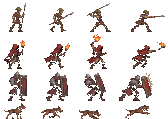
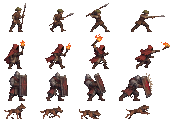
영상·적 그림 바탕 지우기 개선: 테두리와 이어진 바탕만 지워 장화·외곽선·그림자 구멍 메움
Claude-Session: https://claude.ai/code/session_01CPuQwRxjahy2BkbhjWZhoU

diff --git a/index.html b/index.html
@@ -1636,7 +1636,7 @@ function updateEnemy(e, dt) {
   e.type.ai(e, player, dx, Math.abs(dx));
 }
 // 1챕터 적 그림 (Higgsfield → art/enemies/enemies_cut.py): 줄마다 대기·걷기·준비·공격 4자세, 기준점 = 발 가운데
-const ENSPR = {"militia":{"w":42,"h":32,"ax":16,"ay":32,"y":0},"torch":{"w":42,"h":37,"ax":14,"ay":37,"y":32},"shield":{"w":39,"h":32,"ax":18,"ay":32,"y":69},"hound":{"w":38,"h":18,"ax":14,"ay":18,"y":101}};
+const ENSPR = {"militia":{"w":42,"h":32,"ax":16,"ay":32,"y":0},"torch":{"w":43,"h":37,"ax":14,"ay":37,"y":32},"shield":{"w":39,"h":32,"ax":18,"ay":32,"y":69},"hound":{"w":38,"h":18,"ax":14,"ay":18,"y":101}};
 const enImg = new Image(); enImg.src = "assets/enemies.png";
 const enC = mk(SP, SP), enG = enC.getContext("2d");
 function drawEnemyArt(e) {

diff --git a/art/enemies/enemies_cut.py b/art/enemies/enemies_cut.py
@@ -1,13 +1,14 @@
 # 1챕터 적 4종 시트(가로 한 줄 4자세: 대기·걷기·준비·공격)를 잘라 assets/enemies.png 로 묶는다. 좌표 JSON 출력
 # 자세마다 발(아래 20% 줄)의 가운데를 기준점으로 맞춘다. 크기는 대기 자세 키로 맞춤
-import json, numpy as np
+import json, sys, os, numpy as np
+sys.path.insert(0, os.path.join(os.path.dirname(os.path.abspath(__file__)), "..", "adv")); from keying import key
 from PIL import Image
 from scipy import ndimage
 SHEETS = {"militia": 30, "torch": 30, "shield": 30, "hound": 16}   # 대기 자세 게임 속 키(px)
 cells, meta = {}, {}
 for name, H in SHEETS.items():
     a = np.asarray(Image.open(f"{name}_source.png").convert("RGB")).astype(int); bg = np.median(a[:20, :20].reshape(-1, 3), axis=0)
-    m = np.abs(a - bg).max(axis=2) > 30; m = ndimage.binary_opening(m, iterations=1)
+    m = key(a, 22); m = ndimage.binary_opening(m, iterations=1)   # 테두리와 이어진 바탕만 지운다
     lab, n = ndimage.label(ndimage.binary_dilation(m, iterations=3)); sizes = ndimage.sum(m, lab, range(1, n + 1))
     keep = np.isin(lab, [i + 1 for i, s in enumerate(sizes) if s > 300]) & m
     W = a.shape[1]; poses = []

diff --git a/art/adv/adv_sword_moves.py b/art/adv/adv_sword_moves.py
@@ -1,6 +1,7 @@
 # 검사 영상 3개(달리기·그로기+포션·점프 내려찍기)에서 프레임을 골라 assets/adv_sword_moves.png 로 만든다.
 # 베기 영상(adv_sword_anim.py)과 같은 크기(K=0.073, 70x70 칸, 발 34,58)로 맞춘다. 실행: python3 art/adv/adv_sword_moves.py (ffmpeg 필요)
-import subprocess, tempfile, json
+import subprocess, tempfile, json, sys, os
+sys.path.insert(0, os.path.dirname(os.path.abspath(__file__))); from keying import key
 import numpy as np
 from PIL import Image
 K = 0.073; S = round(960 * K)
@@ -19,7 +20,7 @@ tmp = tempfile.mkdtemp(); out = Image.new("RGBA", (S * len(PICK), S)); anims = {
 for v, path in SRC.items(): subprocess.run(["ffmpeg", "-v", "error", "-i", path, f"{tmp}/{v}_%03d.png"], check=True)
 for j, (name, v, i, mode) in enumerate(PICK):
     a = np.asarray(Image.open(f"{tmp}/{v}_{i + 1:03d}.png").convert("RGB")).astype(int); bg = a[5, 5]
-    al = (np.abs(a - bg).sum(2) > 45).astype(np.uint8) * 255
+    al = key(a).astype(np.uint8) * 255
     dy = 796 - FEET[v]
     if mode == "head": hy = np.where((a[..., 0] > 150) & (a[..., 1] < 90) & (a[..., 2] < 90))[0]; dy = 250 - int(hy.min())
     dx = 523 - HAIRX[v]

diff --git a/art/adv/adv_sword_anim.py b/art/adv/adv_sword_anim.py
@@ -1,6 +1,7 @@
 # 검사 베기 영상(art/adv/sword_slash_source.mp4, 960x960 24fps)에서 프레임 10장을 골라 assets/adv_sword_anim.png 로 만든다.
 # 실행: python3 art/adv/adv_sword_anim.py   (ffmpeg 필요)
-import subprocess, tempfile, os, json
+import subprocess, tempfile, os, json, sys
+sys.path.insert(0, os.path.dirname(os.path.abspath(__file__))); from keying import key
 import numpy as np
 from PIL import Image
 SRC = "art/adv/sword_slash_source.mp4"
@@ -12,7 +13,7 @@ subprocess.run(["ffmpeg", "-v", "error", "-i", SRC, f"{tmp}/a%03d.png"], check=T
 S = round(960 * K); out = Image.new("RGBA", (S * len(PICK), S))
 for j, i in enumerate(PICK):
     a = np.asarray(Image.open(f"{tmp}/a{i + 1:03d}.png").convert("RGB")).astype(int)
-    al = (np.abs(a - BG).sum(2) > 45).astype(np.uint8) * 255
+    al = key(a).astype(np.uint8) * 255
     im = Image.fromarray(np.dstack([a.astype(np.uint8), al]), "RGBA").resize((S, S), Image.BOX)
     s = np.asarray(im).copy(); s[..., 3] = np.where(s[..., 3] > 120, 255, 0)
     out.paste(Image.fromarray(s), (j * S, 0))

diff --git a/art/adv/keying.py b/art/adv/keying.py
@@ -1,0 +1,10 @@
+# 영상 프레임 바탕 지우기: 테두리와 이어진 바탕만 지운다 (몸 안쪽의 어두운 색·외곽선은 남김). 몸 안에 갇힌 큰 바탕 구멍(다리 사이 등)은 지운다
+import numpy as np
+from scipy import ndimage
+def key(a, thr=20, hole=1500):
+    bg = np.median(np.concatenate([a[:6].reshape(-1, 3), a[-6:].reshape(-1, 3), a[:, :6].reshape(-1, 3), a[:, -6:].reshape(-1, 3)]), axis=0)
+    back = np.abs(a - bg).max(axis=2) <= thr
+    lab, n = ndimage.label(back); sizes = ndimage.sum(back, lab, range(1, n + 1))
+    edge = set(np.unique(np.concatenate([lab[0], lab[-1], lab[:, 0], lab[:, -1]]))) - {0}
+    drop = [i + 1 for i in range(n) if (i + 1) in edge or sizes[i] > hole]
+    return ~np.isin(lab, drop)
